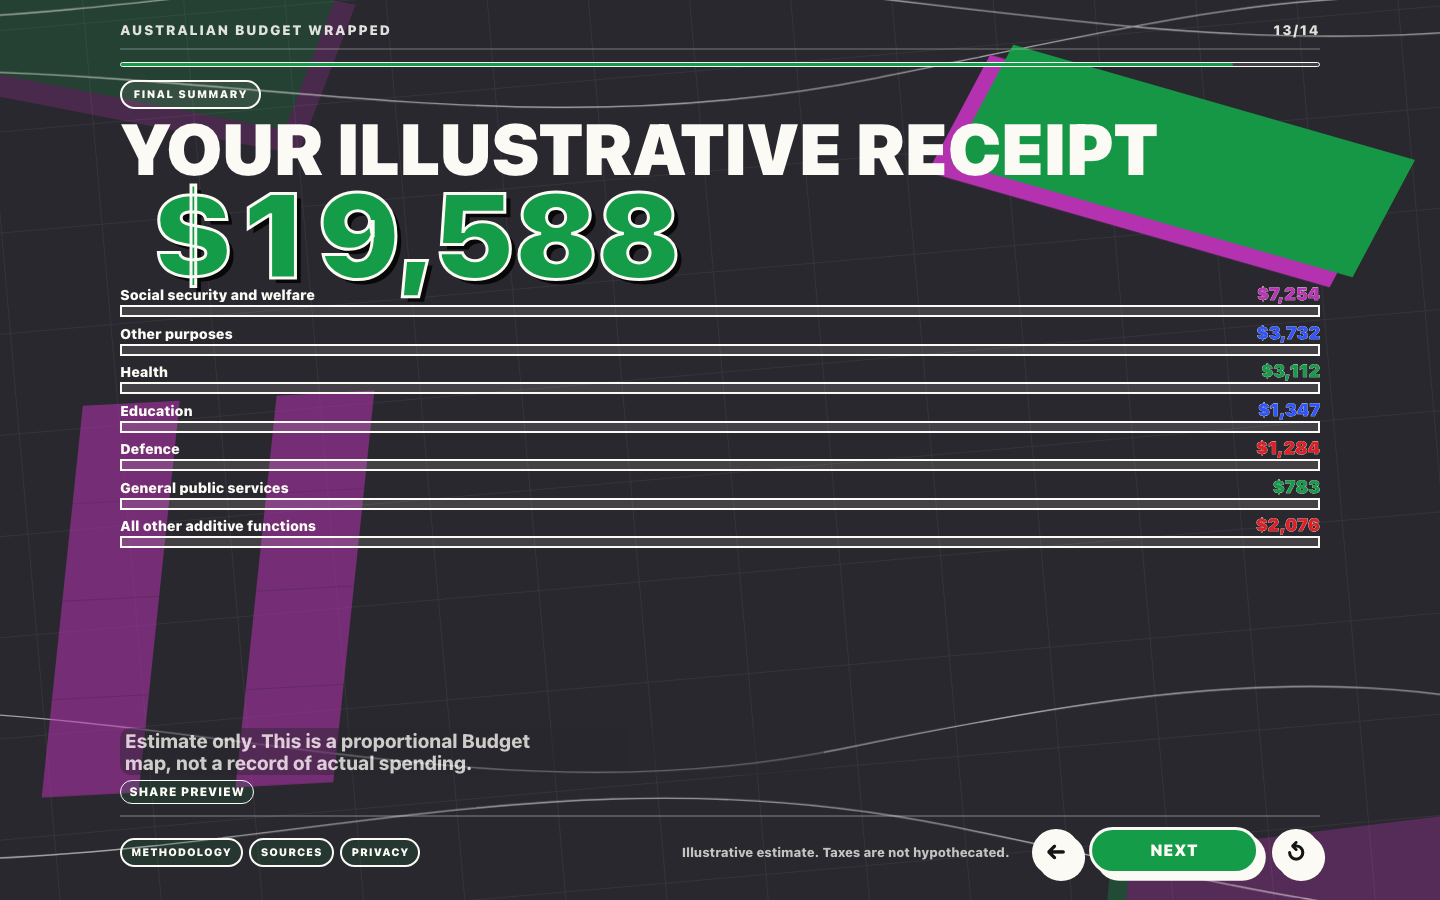
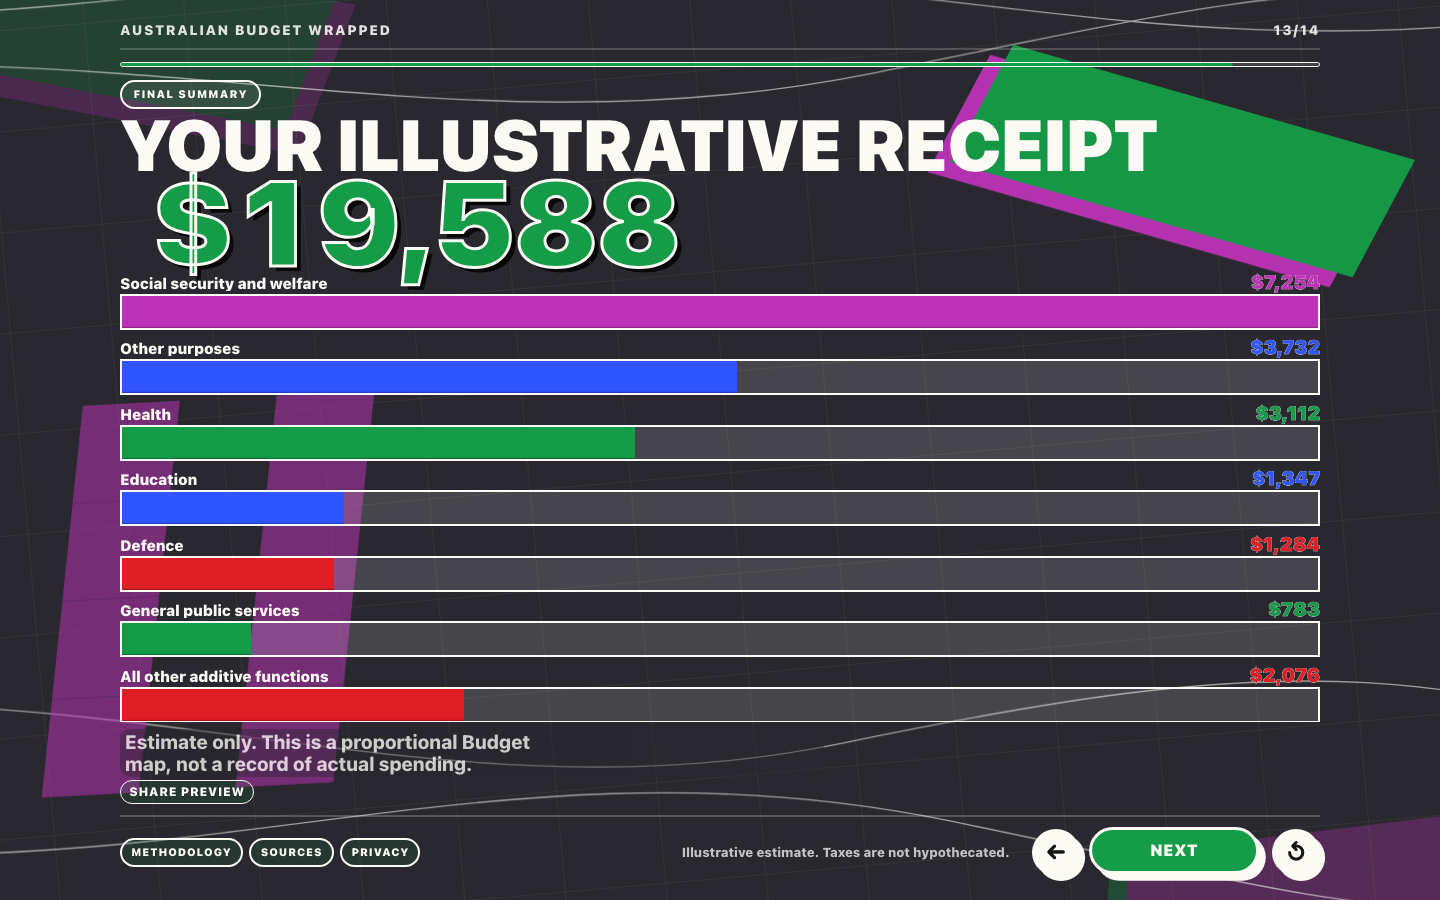
Improve laptop final summary layout

diff --git a/src/app/globals.css b/src/app/globals.css
@@ -1441,6 +1441,7 @@ button.summary-chart-row {
 .summary-chart-fill {
   display: block;
   height: 100%;
+  background: var(--chart-colour);
   transform-origin: left center;
   animation: summary-bar-grow 560ms cubic-bezier(0.16, 1, 0.3, 1) both;
 }
@@ -2564,7 +2565,7 @@ button.summary-chart-row {
     grid-template-rows: auto auto auto minmax(0, 1fr) auto auto;
     align-content: stretch;
     align-items: start;
-    gap: clamp(0.45rem, 0.9svh, 0.7rem);
+    gap: clamp(0.32rem, 0.75svh, 0.62rem);
   }
 
   .story-card-summary .story-moment-summary > * {
@@ -2580,13 +2581,51 @@ button.summary-chart-row {
 
   .story-moment-summary .story-title {
     max-width: none;
+    line-height: 0.78;
+  }
+
+  .story-moment-summary .summary-total {
+    margin-top: -0.24rem;
   }
 
   .story-moment-summary .summary-chart {
+    display: grid;
+    align-self: stretch;
     width: 100%;
     max-width: none;
     min-height: 0;
     overflow-y: auto;
+  }
+
+  .story-moment-summary .summary-chart-rows {
+    height: 100%;
+    align-content: stretch;
+    grid-auto-rows: minmax(2.05rem, 1fr);
+    gap: clamp(0.42rem, 1svh, 0.72rem);
+  }
+
+  .story-moment-summary .summary-chart-row {
+    grid-template-rows: auto minmax(0.72rem, 1fr);
+    align-content: stretch;
+    gap: clamp(0.16rem, 0.3svh, 0.24rem);
+  }
+
+  .story-moment-summary .summary-chart-row-top span {
+    font-size: clamp(0.78rem, 1.05vw, 0.98rem);
+  }
+
+  .story-moment-summary .summary-chart-row-top strong {
+    font-size: clamp(1rem, 1.35vw, 1.22rem);
+  }
+
+  .story-moment-summary .summary-chart-track {
+    height: 100%;
+    min-height: clamp(0.76rem, 1.25svh, 1.05rem);
+    background: rgba(251, 250, 245, 0.14);
+  }
+
+  .story-moment-summary .summary-chart-fill {
+    box-shadow: inset 0 -0.08rem 0 rgba(0, 0, 0, 0.24);
   }
 
   .story-moment-summary .story-caveat {
@@ -2690,8 +2729,14 @@ button.summary-chart-row {
   }
 
   .story-controls-intro .story-controls-actions {
-    width: min(100%, 12rem);
-    grid-template-columns: minmax(8.5rem, 12rem);
+    width: min(100%, 16rem);
+    grid-template-columns: minmax(12rem, 16rem);
+  }
+
+  .story-controls-intro .story-main-button {
+    min-height: clamp(3.45rem, 6.4svh, 4.3rem);
+    font-size: clamp(1.15rem, 1.35vw, 1.38rem);
+    box-shadow: 0.42rem 0.42rem 0 var(--story-shadow);
   }
 
   .story-main-button,

diff --git a/tests/e2e/routes.spec.ts b/tests/e2e/routes.spec.ts
@@ -7,6 +7,7 @@ const HERO_FIT_INCOMES = [0, 5, 18200, 90000, 250000, 1000000] as const;
 const HERO_FIT_VIEWPORT_WIDTHS = [360, 390, 430] as const;
 const DESKTOP_CONTAINMENT_VIEWPORTS = [
   { width: 1280, height: 800 },
+  { width: 1366, height: 768 },
   { width: 1440, height: 900 },
 ] as const;
 
@@ -19,7 +20,10 @@ const routes = [
 ];
 
 async function clickStoryButton(page: Page, name: string) {
-  await page.getByRole("button", { name, exact: true }).click({ force: true });
+  const button = page.getByRole("button", { name, exact: true });
+
+  await expect(button).toBeEnabled();
+  await button.click({ force: true });
 }
 
 test.describe("routes", () => {
@@ -630,6 +634,45 @@ async function expectDesktopContentContained(page: Page, context: string) {
   expect(pageScrolls, `${context} page scroll`).toBe(false);
 }
 
+async function expectSummaryBarsVisuallyWeighted(page: Page) {
+  const bars = await page.locator(".summary-chart-row").evaluateAll((rows) =>
+    rows.map((row) => {
+      const fill = row.querySelector(".summary-chart-fill") as HTMLElement | null;
+      const track = row.querySelector(".summary-chart-track") as HTMLElement | null;
+      const label =
+        row.querySelector(".summary-chart-row-top span")?.textContent?.trim() ??
+        "";
+
+      if (!fill || !track) {
+        return { label, backgroundColor: "", fillWidth: 0, trackWidth: 0 };
+      }
+
+      return {
+        label,
+        backgroundColor: window.getComputedStyle(fill).backgroundColor,
+        fillWidth: fill.getBoundingClientRect().width,
+        trackWidth: track.getBoundingClientRect().width,
+      };
+    }),
+  );
+
+  expect(bars.length).toBeGreaterThan(2);
+
+  for (const bar of bars) {
+    expect(bar.fillWidth, `${bar.label} fill width`).toBeGreaterThan(0);
+    expect(bar.fillWidth, `${bar.label} track width`).toBeLessThanOrEqual(
+      bar.trackWidth + 1,
+    );
+    expect(bar.backgroundColor, `${bar.label} fill colour`).not.toBe(
+      "rgba(0, 0, 0, 0)",
+    );
+  }
+
+  expect(bars[0].fillWidth, "largest summary row fill").toBeGreaterThan(
+    bars[1].fillWidth,
+  );
+}
+
 async function advanceDesktopAndAssert(
   page: Page,
   heading: string | RegExp,
@@ -718,6 +761,7 @@ async function walkDesktopFlowAndAssertContainment(page: Page) {
     "Your illustrative receipt",
     "desktop final summary",
   );
+  await expectSummaryBarsVisuallyWeighted(page);
   await advanceDesktopAndAssert(
     page,
     "Australia's 2025-26 Commonwealth bill.",
@@ -743,6 +787,8 @@ test.describe("drilldown row ordering", () => {
 });
 
 test.describe("laptop story stage", () => {
+  test.setTimeout(60_000);
+
   for (const viewport of DESKTOP_CONTAINMENT_VIEWPORTS) {
     test.describe(`${viewport.width}x${viewport.height}`, () => {
       test.use({ viewport });

diff --git a/docs/product/design-review/desktop-layout-v2/README.md b/docs/product/design-review/desktop-layout-v2/README.md
@@ -56,6 +56,8 @@ drilldown bars.
 - The drilldown subcategory list fits in the right column without the mobile
   scroll affordance.
 - The final summary receipt spans the desktop composition below the hero figure.
+- Final summary bars now render visible fills proportional to each row's
+  computed weight.
 
 ## Remaining Risk
 